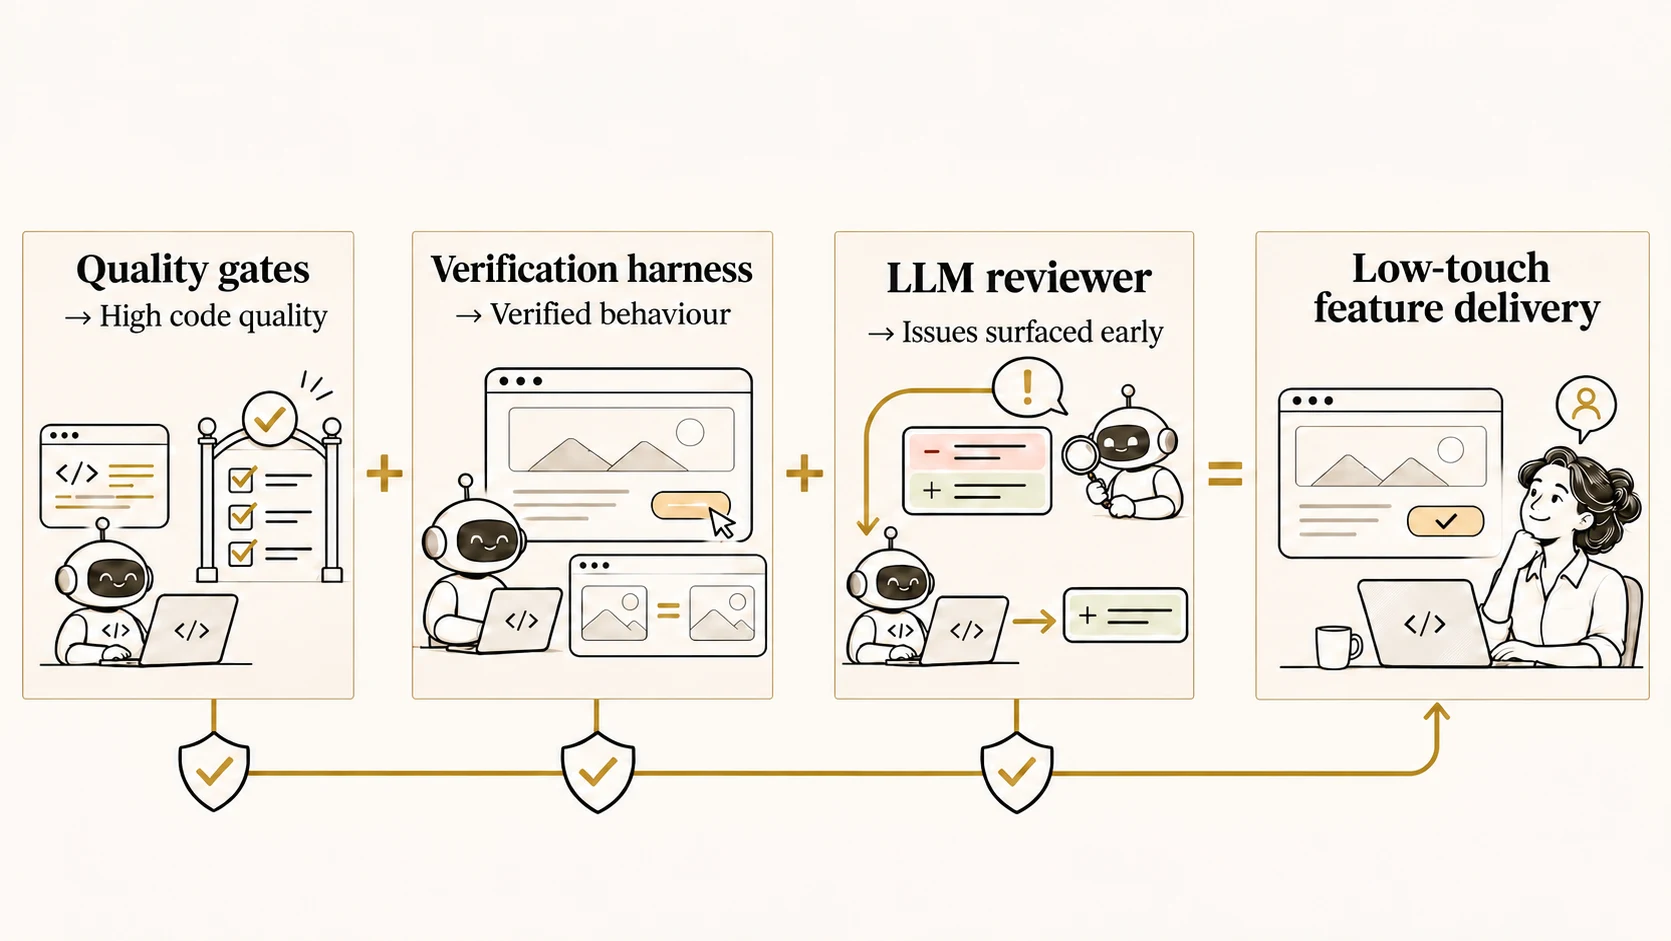
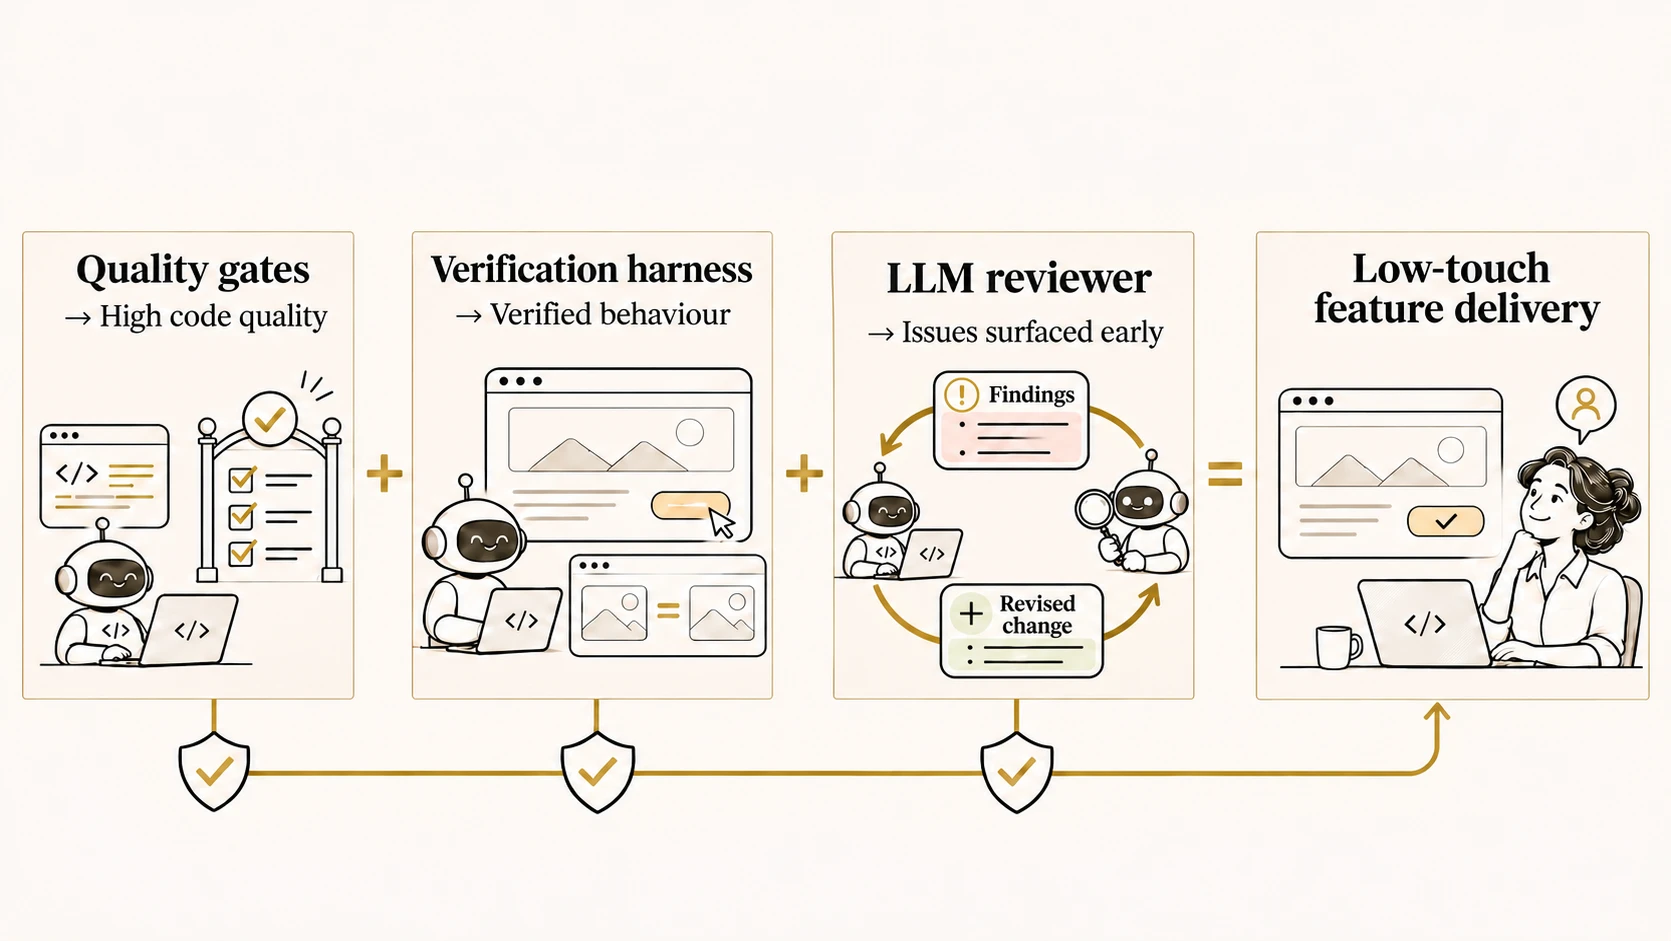
fix(illustrations): refine bottleneck labels and reviewer loop (#45)
## Summary

- Give all three bottleneck panels consistent compact chips for the
bottleneck and intervention, including “Rust-based tools” without
repeating Ruff, uv, and ty.
- Show findings and revised changes moving in a two-way loop between the
independent reviewer and implementer in the success illustration.
- Match the three repeated manual browser checks with three E2E checks
completed by the agent.
- Widen the success illustration and update alternative text and artwork
prompts.

## Validation

- `just render`
- `git diff --check`

## Visual evidence

Desktop and phone-landscape screenshots for both affected slides are in
the [updated screenshots
comment](https://github.com/IndrajeetPatil/agentic-engineering-golden-rules/pull/45#issuecomment-7044055532).

diff --git a/media/README.md b/media/README.md
@@ -82,38 +82,39 @@ labels, delivery queues, overwhelmed human reviewers, coding agents, and rocket.
 Three practical responses to queues in software delivery: use Rust-based
 Python tools for slow lint and type checks; split or stack large pull requests
 before an LLM author/reviewer loop; and replace repeated manual behaviour
-checks with E2E tests. The labels name possible interventions, not guaranteed
-speedups.
+checks with E2E tests. Each panel uses compact chips to label the bottleneck and
+its intervention. Ruff, uv, and ty are named in the first panel's illustration,
+so its intervention chip describes them collectively as Rust-based tools.
 
 ```text
 Use case: productivity-visual. Revise the supplied three-panel illustration
 in the deck's editorial style: flat ivory canvas, warm-stone panels, near-black
-pen-and-ink linework, restrained gold hairlines and arrows, serif headings,
-and legible labels. Keep the existing panel headings and interventions.
-Panel one, "Slow lint/type checks": show a queue of changes waiting, a slow
-clock, and a person visibly waiting for checks to finish; below, show the
-faster resolution with Ruff, uv, and ty. Panel two, "Split or stack PRs":
-show several pull requests piling up and one human reviewer looking surprised
-and overwhelmed; below, show smaller changes entering a looping LLM Author and
-Reviewer workflow. Panel three, "Manual behaviour checks": show the same web
-journey being manually repeated several times and one unhappy, tired human;
-below, show an E2E test automating that journey. Use very few emphasis marks,
-with no decorative rays, whisker-like lines, or sparkles. Keep the panels
-balanced, accurate, and spacious. No overall title or footer.
+pen-and-ink linework, restrained gold hairlines and arrows. Preserve the three
+scenes. Use compact rounded outline label chips, with modest sans-serif type and
+ample vertical spacing before each scene. Top chip labels: “Slow lint/type
+checks”, “Pull request queues”, and “Manual behaviour checks”. Bottom
+intervention chips: “Rust-based tools”, “LLM review loop”, and “E2E tests”. Do
+not repeat Ruff, uv, or ty in any chip; they are already visibly listed in panel
+one. Show a queue and slow clock before Ruff, uv, and ty; smaller changes
+entering a two-way LLM author/reviewer loop after a review queue; and repeated
+manual browser checks automated by an E2E agent that runs the same three checks
+shown above. Match the three manual browser windows with three automated browser
+test cards below, each with a clear completion check. Keep labels aligned and
+panels balanced, accurate, and spacious. No oversized headings, duplicated
+information, overall title, caption, or watermark.
 ```
 
 The three panels make waiting, review overload, and repetitive manual checks
-visible through queues and human expressions. Decorative emphasis marks are
-sparse.
+visible through queues and human expressions. Decorative emphasis marks are sparse.
 
 ## constituents-of-success.webp
 
 The equation shows three complementary safeguards adding up to low-touch
 feature delivery. Quality gates lead to high code quality, a
 verification harness establishes verified behaviour, and an independent LLM
-reviewer surfaces issues early and returns findings to the coding agent. A
-person focuses on higher-level work and retains oversight. The exact panel
-labels are “Quality gates → High code quality”, “Verification harness →
+reviewer surfaces issues early and exchanges findings and revised changes
+with an implementer agent in a two-way loop. A person focuses on higher-level
+work and retains oversight. The exact panel labels are “Quality gates → High code quality”, “Verification harness →
 Verified behaviour”, “LLM reviewer → Issues surfaced early”, and
 “Low-touch feature delivery”. Large plus and equals signs make the
 relationship explicit.
@@ -123,10 +124,10 @@ Edit the supplied presentation illustration to show an explicit equation.
 Make the first three safeguard panels additive inputs, with a large “+” sign
 between the first and second, another “+” between the second and third, and a
 large “=” before the result panel. Remove the arrow connectors between panels
-but retain arrows inside the reviewer feedback loop and the bottom quality
-rail. Keep the existing scenes and the deck's bright ivory canvas, pale
-warm-stone panels, square gold frames, fine near-black linework, and restrained
-gold accents.
+but retain two-way arrows between the independent reviewer and implementer
+inside the reviewer feedback loop, plus the bottom quality rail. Keep the
+existing scenes and the deck's bright ivory canvas, pale warm-stone panels,
+square gold frames, fine near-black linework, and restrained gold accents.
 
 Use these exact panel labels and outcomes: “Quality gates” followed by
 “→ High code quality”; “Verification harness” followed by
